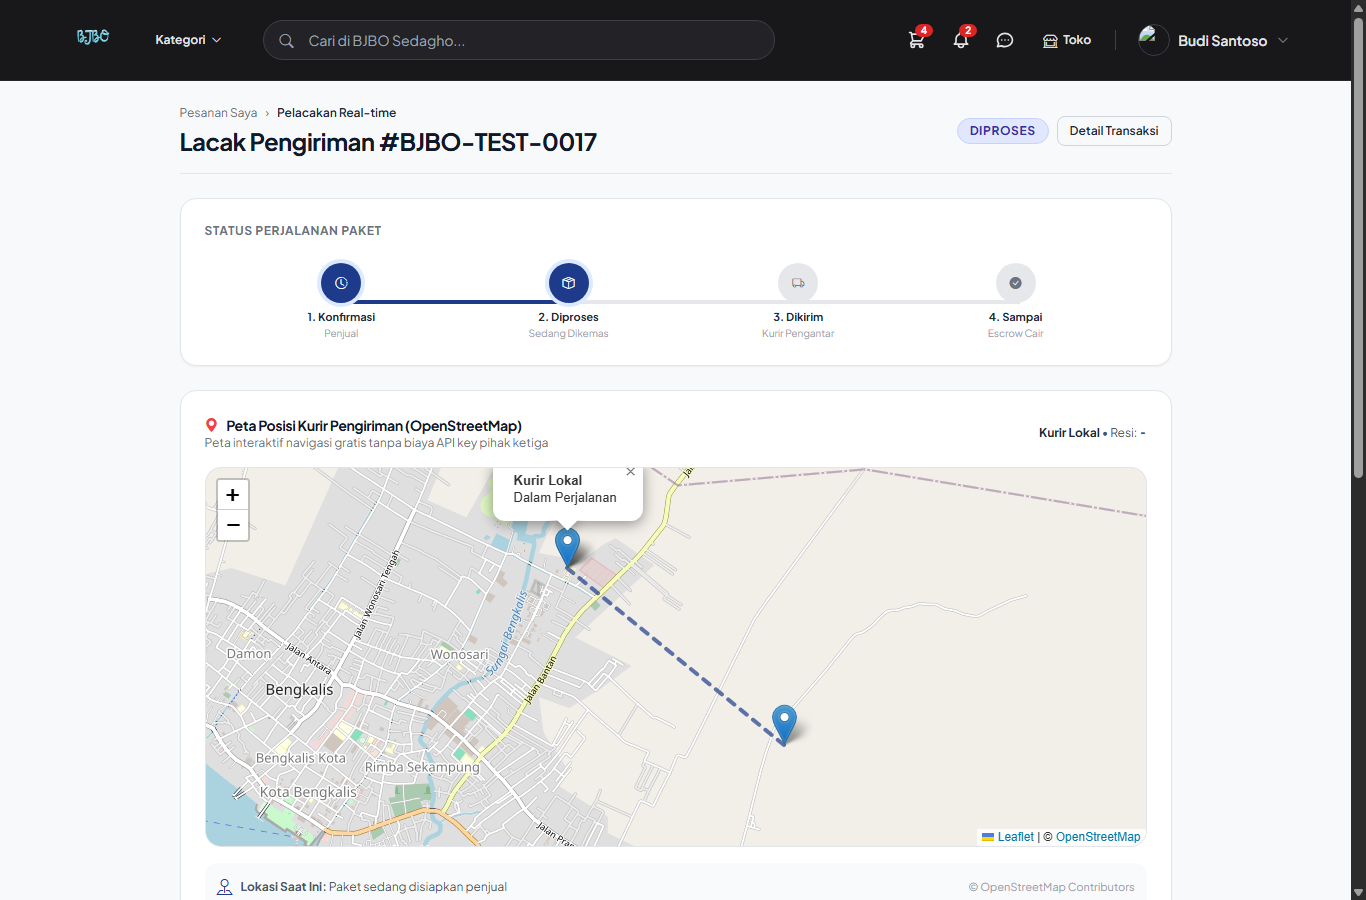
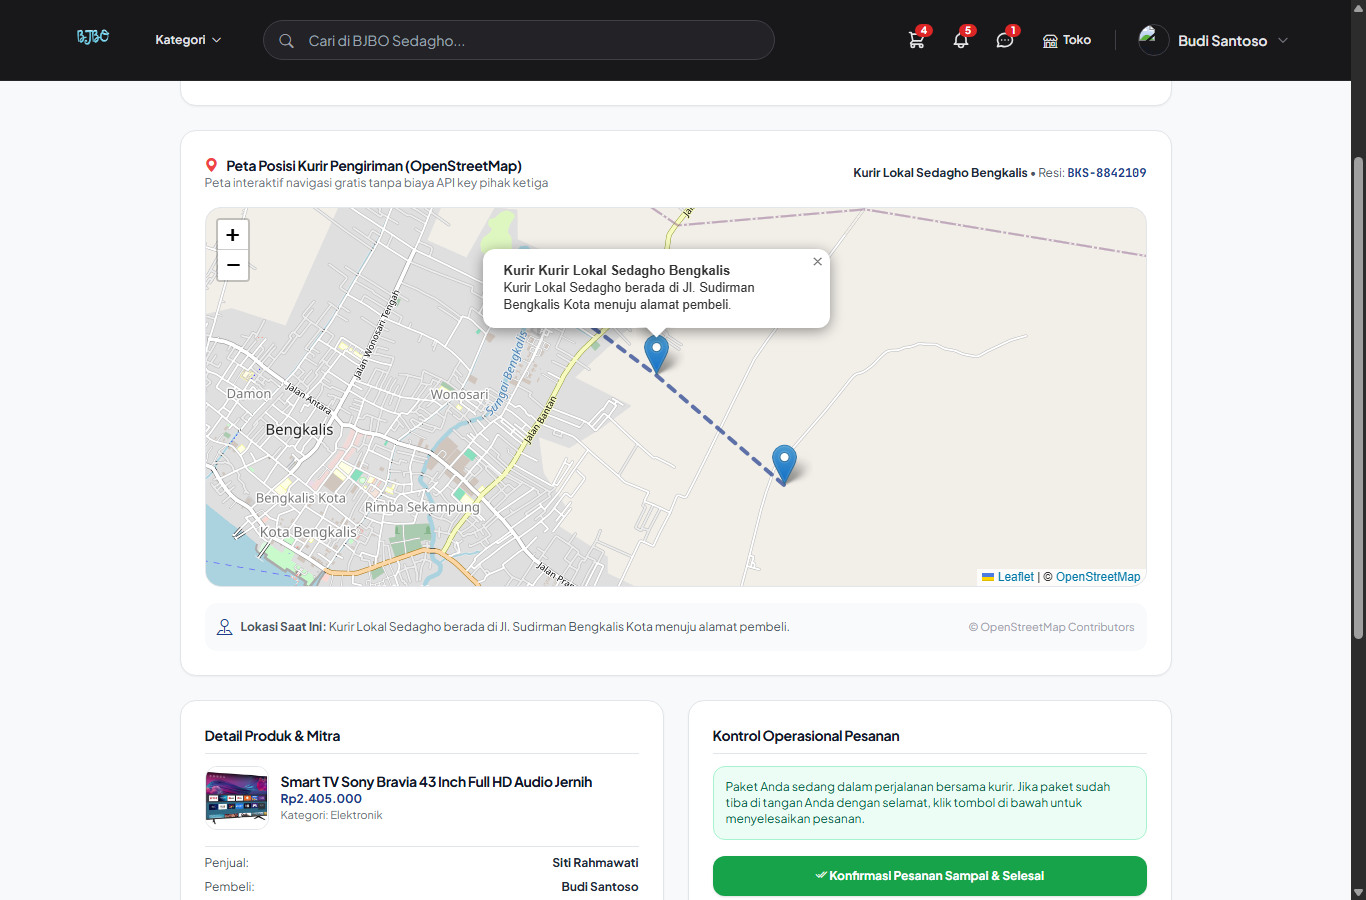
docs(readme): perbarui galeri web 2 POV untuk chat, notifikasi, pembayaran QRIS, dan kontrol penjual

diff --git a/README.md b/README.md
@@ -37,20 +37,24 @@ Aplikasi ini memfasilitasi transaksi jual beli lokal dengan menyediakan fitur et
 | :---: | :---: | :---: |
 | ![Landing BJBO Web](docs/screenshots/web_01_landing.png) | ![Login BJBO Web](docs/screenshots/web_02_login.png) | ![Dashboard BJBO Web](docs/screenshots/web_03_dashboard.png) |
 
-### Checkout Kurir, Tracking Peta OpenStreetMap, & Pesanan
-| Pilih Kurir & Checkout | Pelacakan Peta OpenStreetMap | Daftar Pesanan (`/user/pesanan`) |
-| :---: | :---: | :---: |
-| ![Checkout Kurir Web](docs/screenshots/web_v2_checkout_courier.png) | ![Tracking Peta Web](docs/screenshots/web_v2_tracking_map.png) | ![Pesanan Web](docs/screenshots/web_08_pesanan.png) |
-
-### Dompet BJPay, Escrow Rekber, Keranjang, & Buka Toko
-| Dompet BJPay (`/user/bjpay`) | Escrow Rekber (`/user/rekber`) | Keranjang (`/user/cart`) | Buka Toko (`/user/buka-toko`) |
+### Checkout Kurir, Pembayaran QRIS/Midtrans, Tracking Peta, & Kontrol 2 POV
+| Pilih Kurir & Checkout | Pembayaran Midtrans / QRIS Modal | Pelacakan Peta OpenStreetMap (`Pembeli`) | Kontrol Pengiriman & Resi (`Penjual`) |
 | :---: | :---: | :---: | :---: |
-| ![BJPay Web](docs/screenshots/web_04_bjpay.png) | ![Rekber Web](docs/screenshots/web_05_rekber.png) | ![Cart Web](docs/screenshots/web_06_cart.png) | ![Buka Toko Web](docs/screenshots/web_07_buka_toko.png) |
+| ![Checkout Kurir Web](docs/screenshots/web_v2_checkout_courier.png) | ![Pembayaran QRIS Web](docs/screenshots/web_v2_pembayaran_midtrans.png) | ![Tracking Peta Web](docs/screenshots/web_v2_tracking_map.png) | ![Kontrol Penjual Web](docs/screenshots/web_v2_penjual_pesanan.png) |
 
-### Obrolan & Notifikasi Real-time (Laravel Reverb)
-| Ruang Obrolan (`/user/chat`) | Notifikasi Live (`/user/notifikasi`) |
-| :---: | :---: |
-| ![Chat Web](docs/screenshots/web_09_chat.png) | ![Notifikasi Web](docs/screenshots/web_10_notifikasi.png) |
+### Dompet BJPay, Escrow Rekber, Pesanan, & Buka Toko
+| Dompet BJPay (`/user/bjpay`) | Escrow Rekber (`/user/rekber`) | Daftar Pesanan (`/user/pesanan`) | Keranjang & Buka Toko |
+| :---: | :---: | :---: | :---: |
+| ![BJPay Web](docs/screenshots/web_04_bjpay.png) | ![Rekber Web](docs/screenshots/web_05_rekber.png) | ![Pesanan Web](docs/screenshots/web_08_pesanan.png) | ![Buka Toko Web](docs/screenshots/web_07_buka_toko.png) |
+
+### Obrolan & Notifikasi 2 POV (Pembeli vs Penjual)
+| Kotak Masuk Chat | Ruang Chat (`POV Pembeli`) | Ruang Chat (`POV Penjual`) |
+| :---: | :---: | :---: |
+| ![Chat Inbox Web](docs/screenshots/web_09_chat.png) | ![Chat Pembeli Web](docs/screenshots/web_v2_chat_pembeli.png) | ![Chat Penjual Web](docs/screenshots/web_v2_chat_penjual.png) |
+
+| Notifikasi (`POV Pembeli`) | Notifikasi (`POV Penjual`) | Keranjang Belanja |
+| :---: | :---: | :---: |
+| ![Notifikasi Pembeli Web](docs/screenshots/web_10_notifikasi.png) | ![Notifikasi Penjual Web](docs/screenshots/web_v2_notifikasi_penjual.png) | ![Cart Web](docs/screenshots/web_06_cart.png) |
 
 ---
 
